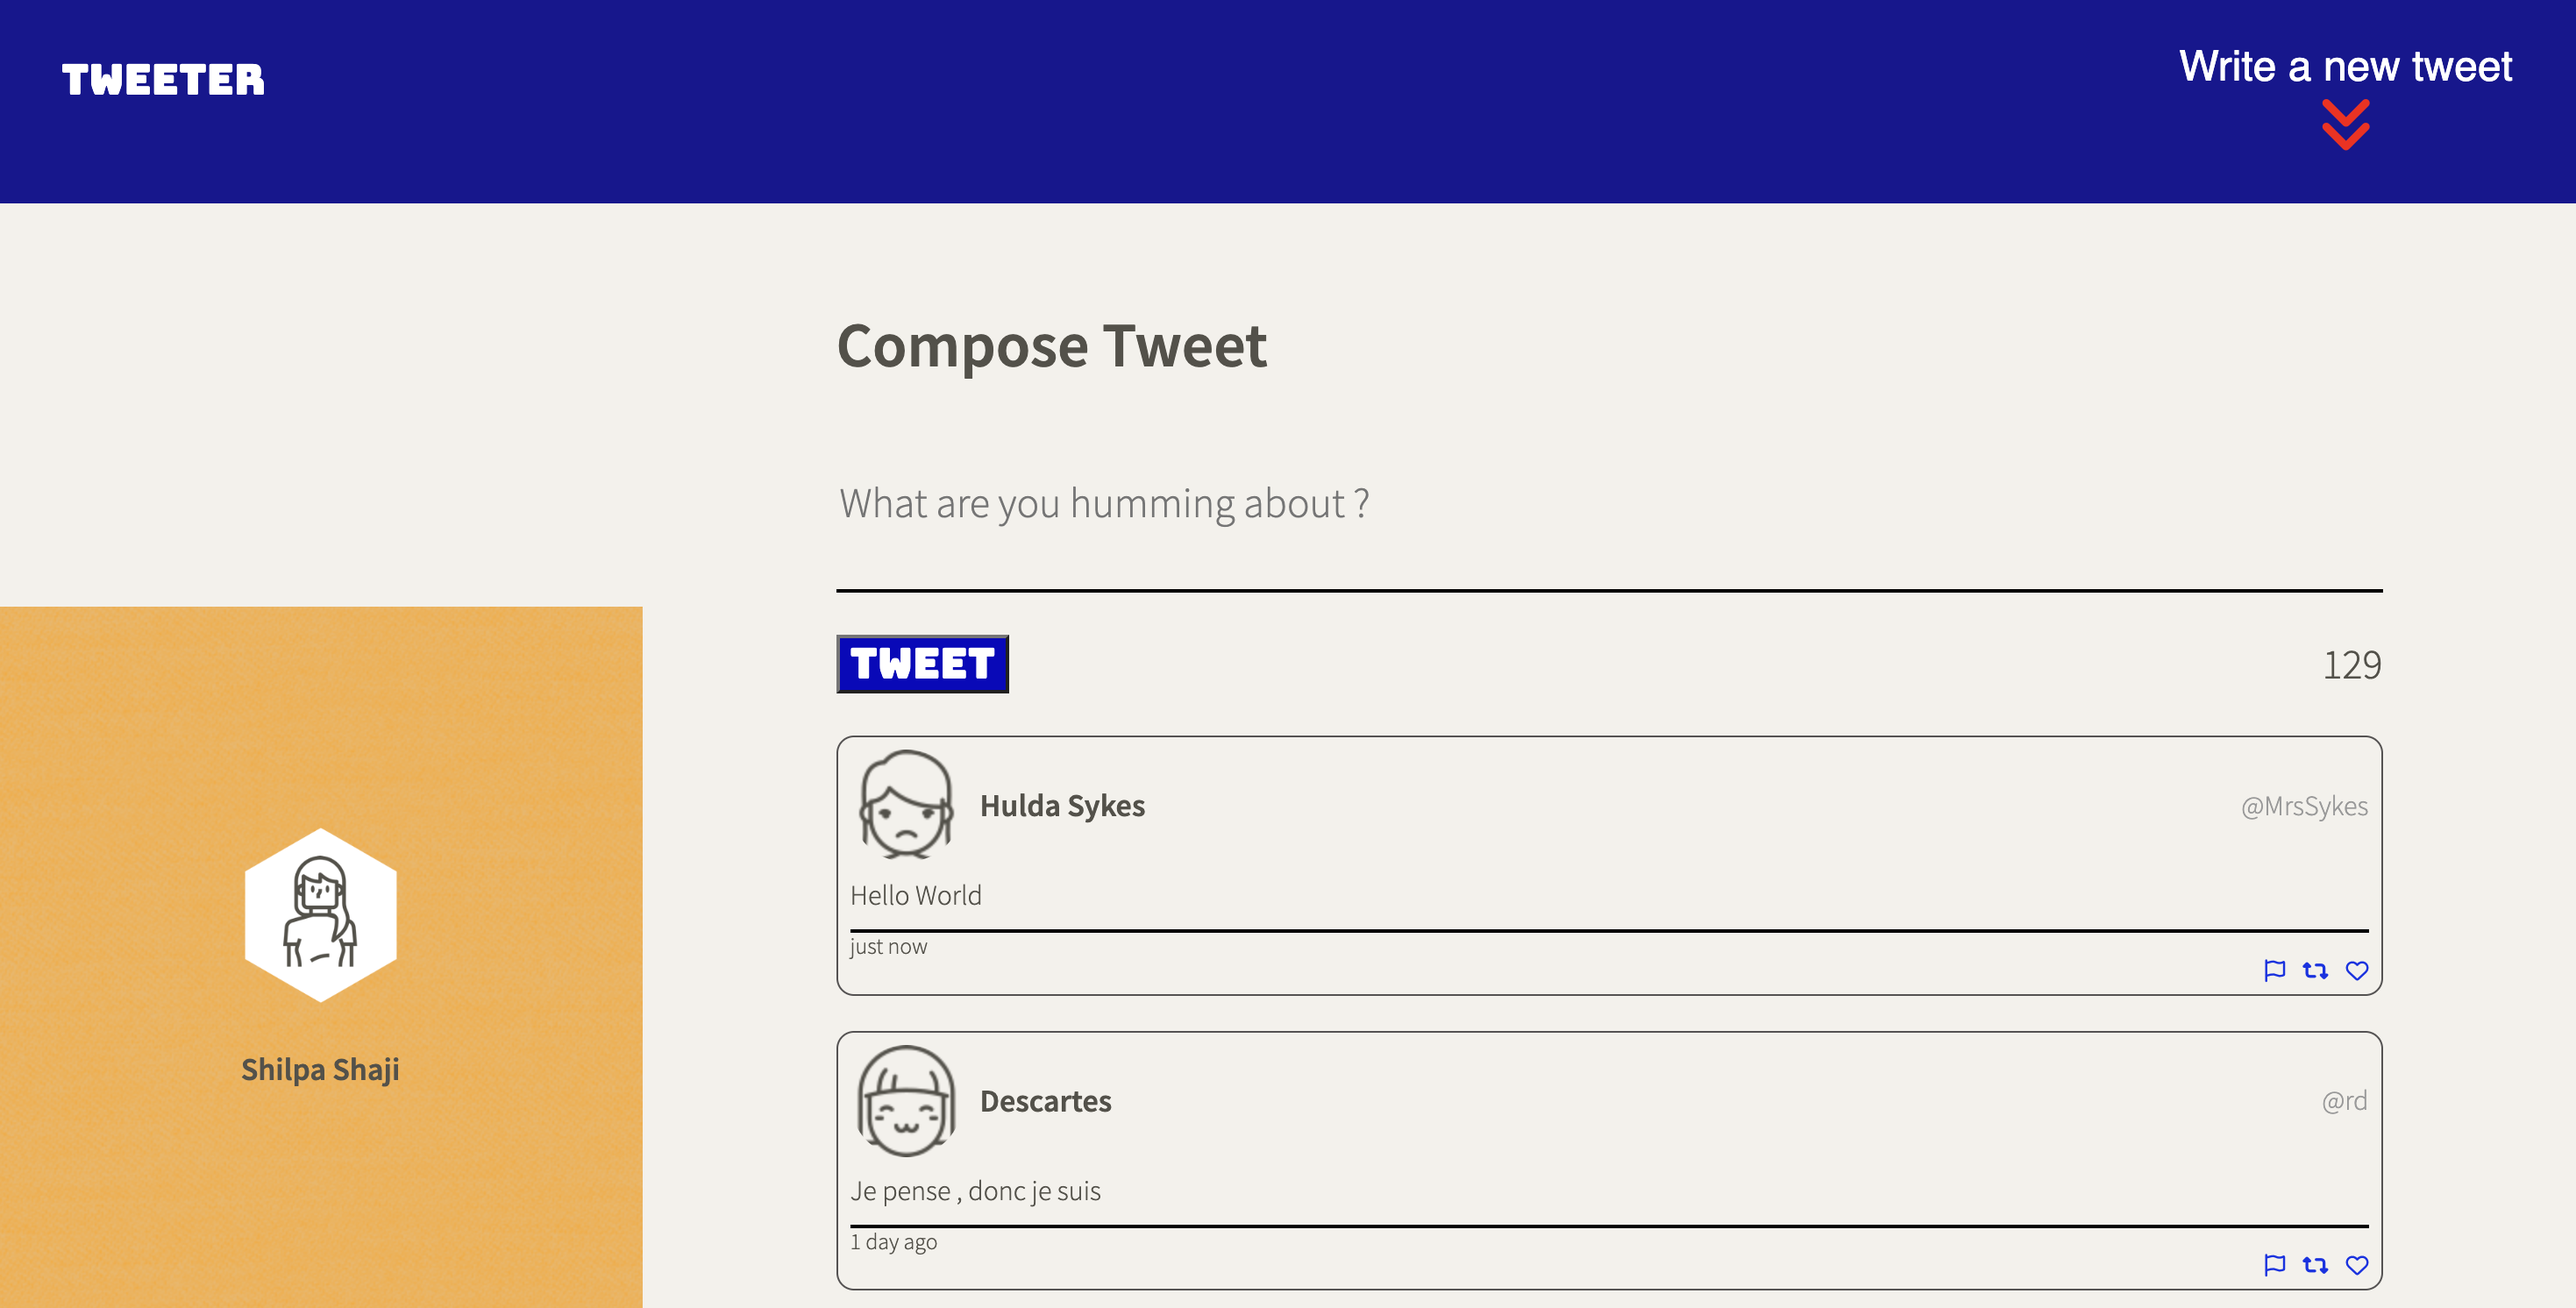
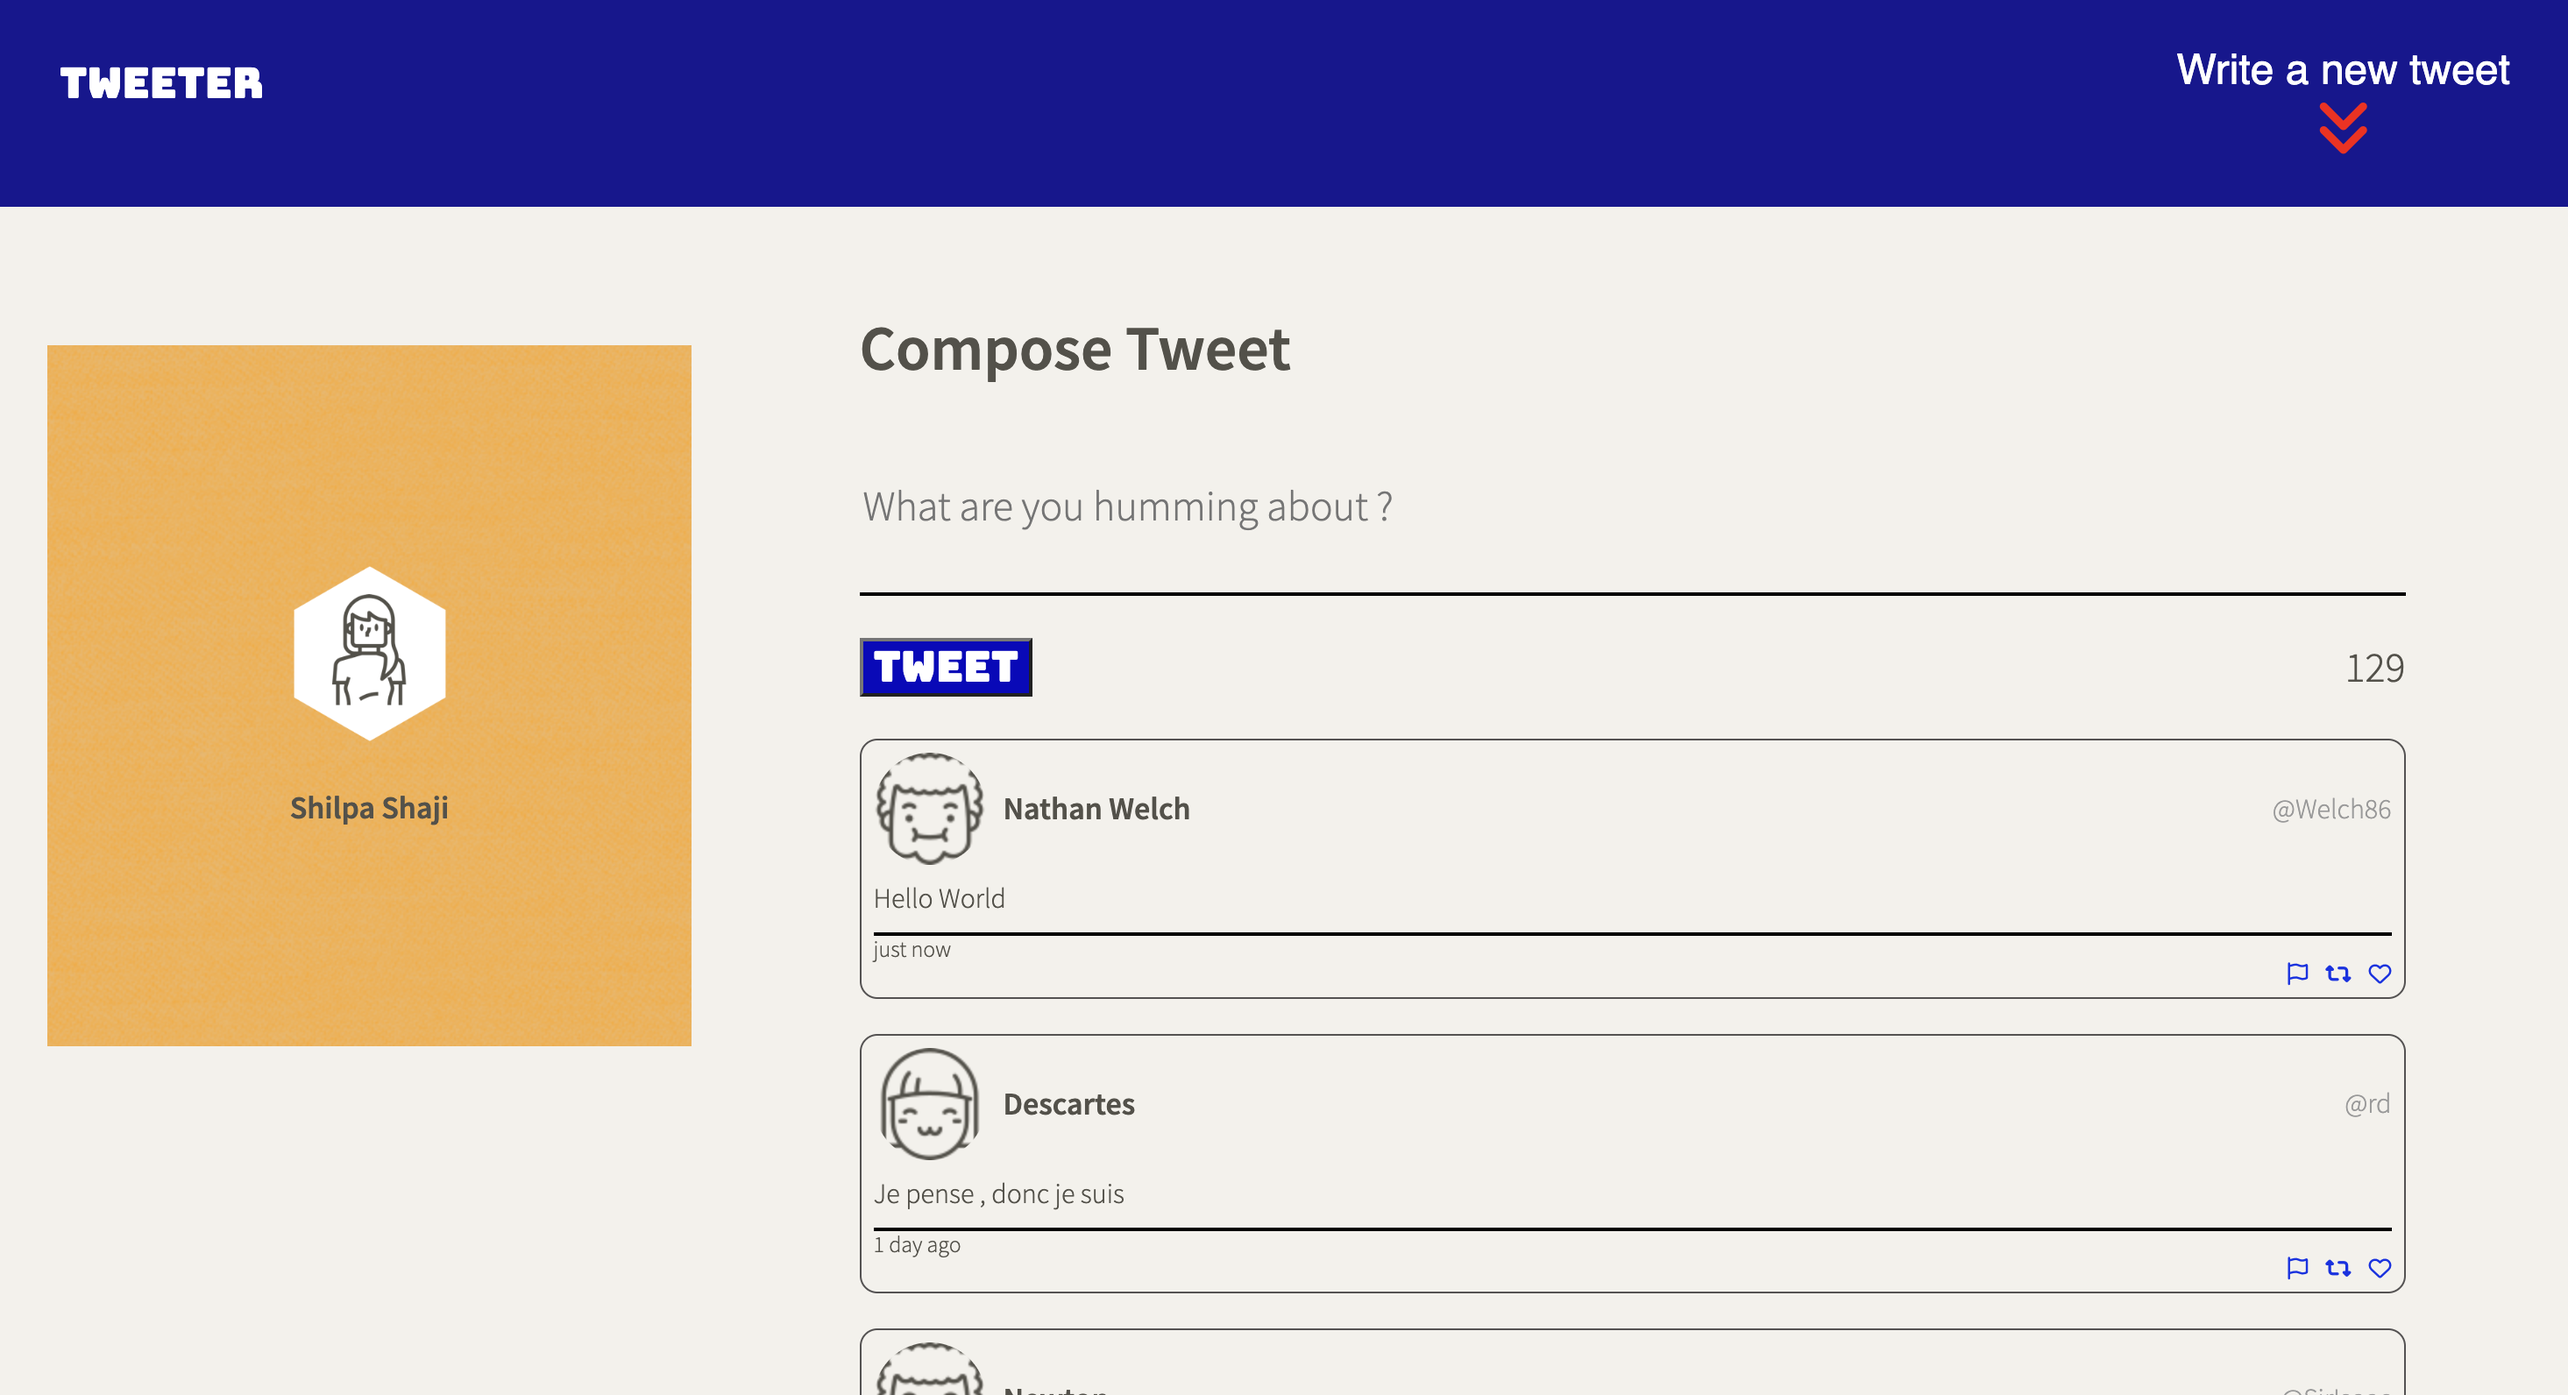
updated responsive design

diff --git a/public/scripts/client.js b/public/scripts/client.js
@@ -34,21 +34,14 @@ const escape = function (str) {
 };
 
 const loadTweets = function () {
-    // const $button = $('.new-tweet__button');
-    // $button.on('click', function () {
-    //     console.log('Button clicked, performing ajax call ..');
-    // });
-    // const $container = $('#tweets-container');
-    // $container.empty();
     $('#tweets-container').empty();
     //AJAX GET request to fetch the tweets
-
     $.ajax({
         method: "GET",
         url: "/tweets",
         type: "json",
         success: function (tweets) {
-            renderTweets(tweets);      //rendering them to the webpage
+            renderTweets(tweets);
         }
     });
 };
@@ -67,8 +60,6 @@ const renderTweets = function (tweets) {
 }
 
 $(document).ready(function () {
-// fetching tweets from the server using ajax GET request
-    
 
     $('form').on('submit', function (event) {
         event.preventDefault();
@@ -95,7 +86,7 @@ $(document).ready(function () {
             type: "application/json",
             data: dataObj,
             success: function () {
-                loadTweets();          
+                loadTweets();
                 $tweetText.val("");
                 console.log("posting success");
             }

diff --git a/README.md b/README.md
@@ -6,26 +6,21 @@ Tweeter is a simple, single-page AJAX - based Twitter clone that uses jQuery,HTM
 
 1. Final page 
 
-<img width="1470" alt="Final page" src="https://user-images.githubusercontent.com/121919958/229019741-9fbba2de-9abf-4ba9-834f-0509b6abe731.png">
-
+<img width="1470" alt="finalpage" src="https://user-images.githubusercontent.com/121919958/229194969-783ca449-417e-45c9-b028-460e88db3c0c.png">
 
 
 2. New Tweet 
 
-<img width="1469" alt="newtweet" src="https://user-images.githubusercontent.com/121919958/229019578-ff0250b6-96c1-4a6f-a13b-86c3feba5bdd.png">
 
 
 3.Display Validation Error check
 
-<img width="1201" alt="validation checking" src="https://user-images.githubusercontent.com/121919958/229019486-cb649f05-73fb-4b2b-9b20-590227edfc03.png">
 
 4. Cross Site Scripting (XSS checking)
 
-<img width="1465" alt="XXSchecking" src="https://user-images.githubusercontent.com/121919958/229019682-ce47fcb7-3c5f-4409-9d42-631985e3bfd9.png">
 
 5. iPhone 12 pro display
 
-<img width="1004" alt="iphone12proview" src="https://user-images.githubusercontent.com/121919958/229020040-169babc4-4cf6-4bdf-8f54-fde3a00c61ba.png">
 
 ## Getting Started
 
